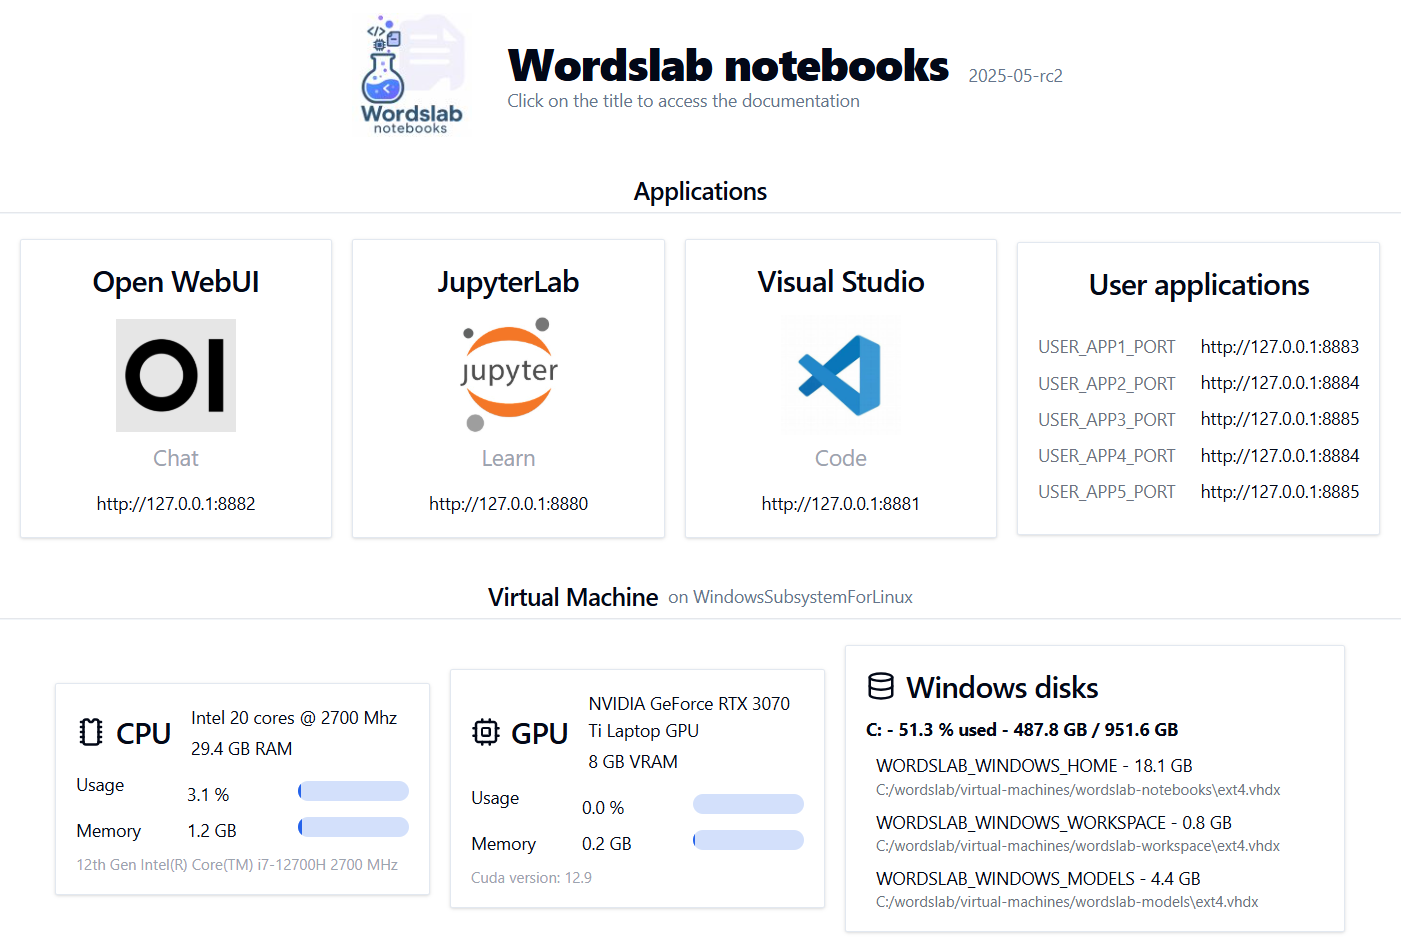
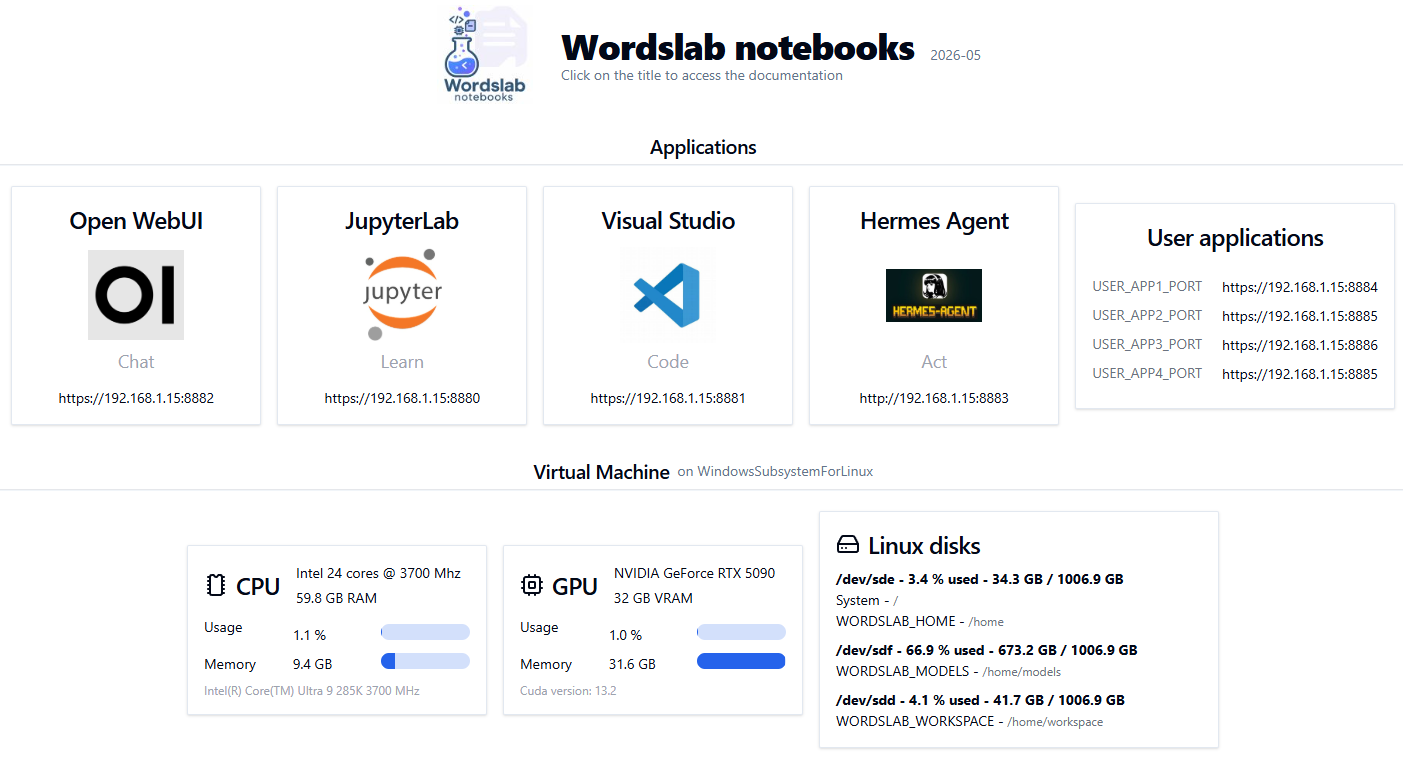
Update README and screenshots for 2026-05

diff --git a/README.md b/README.md
@@ -27,20 +27,21 @@ One click install of all the tools you need to learn, explore and build AI appli
 - Options to leverage your own machines at home or to rent more powerful machines in the cloud 
 - Documentation to guide you in your AI learning and exploration journey
 	
-3 main applications
+4 main applications
 
 - A rich chat interface (text, images, voice) : Open WebUI
-- A notebooks platform (text & code) : JupyterLab with wordslab-notebooks "AI prompt cells" + Jupyter AI extension
-- A development environment (code) : Visual Studio Code + Cline & Kilo Code extensions, and OpenCode & Mistral Vibe AI coding agents
+- A notebooks platform (text & code) : JupyterLab with wordslab-notebooks "AI prompt cells"
+- A development environment (code) : Visual Studio Code + Kilo Code extension (+ Mistral Vibe AI coding agent)
+- A personal AI agent (actions) : Hermes Agent
 
 ![wordslab-notebooks main applications](./docs/images/wordslab-notebooks-main-apps.jpg)
 
 Installs a ready to use and fully integrated AI environment with
 
 - A visual dashboard to help you navigate all applications and manage your machine resources
-- Optimized inference engines to run AI models : Ollama + vLLM
+- An optimized inference engine to run the best local AI models your machine can run : Ollama
 
-Why use this instead of a popular cloud services like ChatGPT ou Gemini ?
+Why use this instead of a popular cloud services like ChatGPT or Claude ?
 
 - Understand how AI works and build your own solutions 
 - Free solution with no rate limits if you already own a powerful machine
@@ -72,7 +73,7 @@ You will see over time that **everything you try just works out of the box**.
 
 Local PC requirements
 
-- Windows 10 or 11, Ubuntu Linux 24.04+
+- Windows 11, Ubuntu Linux 24.04+
 - x64 CPU (Intel or AMD), 16 GB RAM
 - 50 GB to 100 GB free disk space (see [more details here](./docs/install-local.md#storage-directories-size-mb---version-2026-05))
 - Nvidia GPU recommended but not mandatory, RTX 3000 or newer, at least 8 GB VRAM
@@ -500,7 +501,7 @@ For more details, read the [Wordslab dashboard tutorial](https://github.com/word
 
 Use the dropdown list to select the language model wich will generate the answers in your chats.
 
-3 language models are installed by default in wordslab-notebooks, for chat, code and agents. They were selected as the best ones available at the time of installation that can run on your machine.
+3 language models are installed by default in wordslab-notebooks, for chat, fast generation and agents. They were selected as the best ones available at the time of installation that can run on your machine.
 
 But you can download many other models if you hacve specific needs.
 - Option 1: download a language model from an internet repository to your machine as a big file of several GB and run it locally.
@@ -532,11 +533,9 @@ Language models installed by default in wordslab 2026-05 :
 
 | Usage | 32 GB GPU | 24 GB GPU | 16 GB GPU | 8 GB GPU | CPU |
 |-------|-----------|-----------|-----------|----------|-----|
-| Chat | gemma3:27b | gemma3:27b | gemma3:12b | gemma3:4b | gemma3:1b |
-| Default Context | 65536 | 32768 | 32768 | 16384 | 8192 |
-| Code | qwen3.5:35b | qwen3.5:27b | qwen3.5:9b | qwen3.5:4b | qwen3.5:2b |
-| Agent | devstral-small-2:24b | glm-4.7-flash:q4_K_M | gpt-oss:20b | ministral-3:3b | lfm2.5-thinking:1.2b |
-| Agent Context | 98304 | 49152 | 98304 | 24576 | 16384 |
+| Chat | gemma4:31b | gemma4:26b | gemma4:e4b | gemma3:4b | gemma3:1b |
+| Fast | qwen3.6:35b | glm-4.7-flash | gpt-oss:20b | ministral-3:3b | lfm2.5-thinking:1.2b |
+| Agent | qwen3.6:27b | qwen3.5:9b | qwen3.5:9b | qwen3.5:2b | qwen3.5:0.8b |
 
 Embedding: embeddinggemma:300m 
 
@@ -586,18 +585,12 @@ For more details read the [Open WebUI tutorial](https://github.com/wordslab-org/
 
 If you want to build solutions, or if you want to go further than a simple chat interface, you will have to write a little bit of code.
 
-To help you get started, wordslab will provide ready to use code projects for the most frequent use cases of AI. You will just be able to clone them in your wordslab environment and read / execute them step by step to see how it works. Then you can just change a few parameters here and there to adapt the program to your needs.
-
-For example
-- wordslab-text will show you how to extract information from documents or user feedbacks
-- wordslab-images will show you how to analyze and generate images
-- wordslab-voice will teach you how to transcribe and summarize your meetings
-
 You can work on your code projects in two different environments which share the same source files
 - JupyterLab notebooks: a notebook is a mix of documentation and code which enables understanding, executing, and visualising operations step by step, and which is perfect to explore and develop new snippets of code, friendly for everybody
 - Visual Studio Code projects: a more complex integrated development environment for developers, perfect to integrate and test all the code snippets in a consistent and reliable application 
 
 Both tools are installed with extensions enabling AI assistance directly in the development environment.
+
 **wordslab-notebooks-lib** is installed by default in jupyterlab environments and provides a new type of cell: **prompt cells** are sent to a local AI model along with all the previous cells as context, and enable you to get AI assistance directly embedded in your notebook codinf workflow.
 
 To transition from one environment to another, the [nbdev](https://nbdev.fast.ai/) toolset is preinstalled by wordslab: you can use it to create a code library from a set of notebooks.
@@ -608,11 +601,14 @@ To create new JupyterLab projects and configure them properly with a dedicated v
 - create-workspace-project [github-project-url.git]
 - activate-workspace-project [project-name]
 
-For jupyterlab notebooks, the jupyter-ai extension adds 
-- a chat ui right next to your notebooks which can interact with their content
-- a magic command to execute a language model instructions directly in a notebook cell
-
 For more details read the [JupyterLab tutorial](https://github.com/wordslab-org/wordslab-notebooks-tutorials/blob/main/03_jupyterlab-notebooks.ipynb).
+
+To help you get started, wordslab will provide ready to use code projects for the most frequent use cases of AI. You will just be able to clone them in your wordslab environment and read / execute them step by step to see how it works. Then you can just change a few parameters here and there to adapt the program to your needs.
+
+For example
+- wordslab-text will show you how to extract information from documents or user feedbacks
+- wordslab-images will show you how to analyze and generate images
+- wordslab-voice will teach you how to transcribe and summarize your meetings
 
 ### Develop with Visual Studio Code
 
@@ -620,13 +616,11 @@ If you are a developer and want to code more serious projects, a server version 
 
 By default, only Python development tools are installed, but you can use the extensions manager to download support for any other popular language.
 
-To provide AI assistance in your Visual Studio Code IDE, the Cline and Kilo Code extensions are installed. They provide
+To provide AI assistance in your Visual Studio Code IDE, the Kilo Code extension is installed:
 - a chat ui directly integrated in your IDE which can interact with your code files
 - an agent which can executing coding tasks on your behalf
-- an autocomplete feature when you write code
-- shortcuts to execute common development operations with a language model
 
-To provide AI assistance in you Terminal, the OpenCode and Mistral Vibe coding agents are also installed and ready to use: they are command line agentic asssitants which can generate code for you.
+To provide AI assistance in you Terminal, the Mistral Vibe coding agent is also installed and ready to use: it is command line agentic asssitans which can generate code for you.
 
 For more details read the [Visual Studio Code tutorial](https://github.com/wordslab-org/wordslab-notebooks-tutorials/blob/main/04_visual-studio_code.ipynb).
 